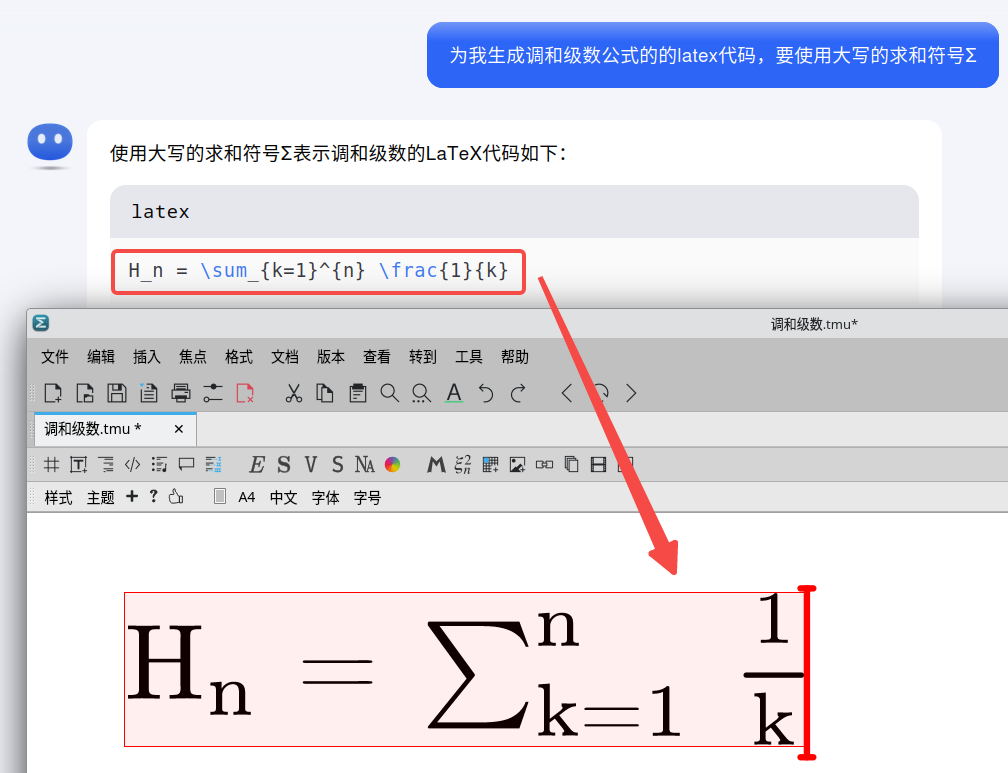
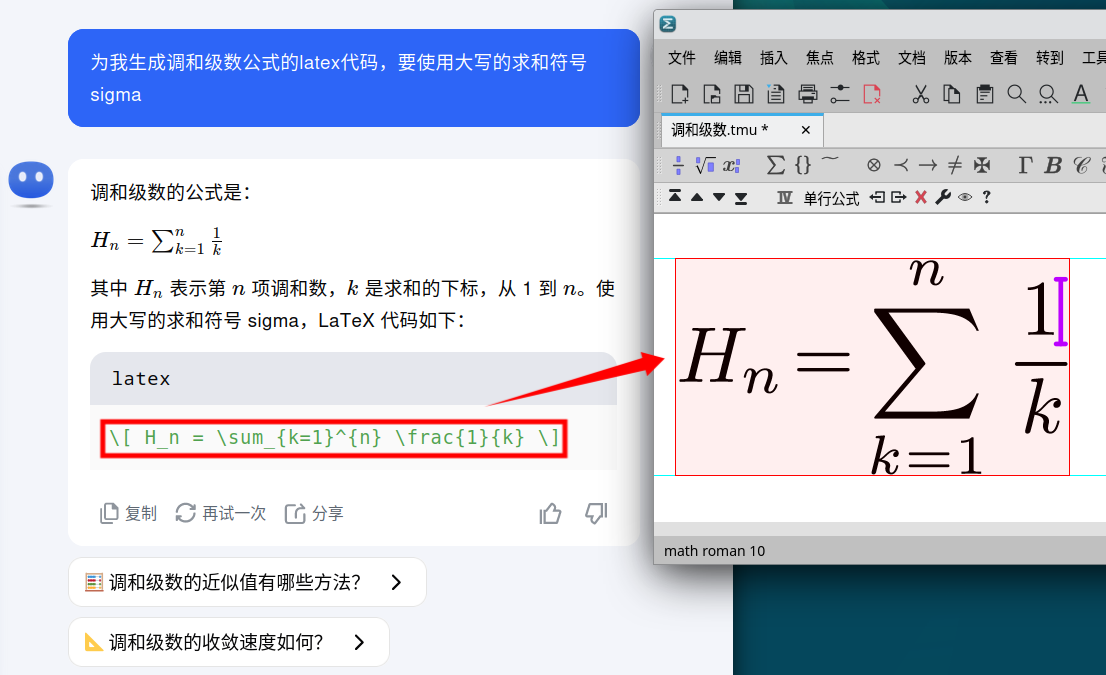
[5_30] 墨干主页配图中英版

diff --git a/docs/index.md b/docs/index.md
@@ -35,7 +35,7 @@ Intuitive and Interactive!
 
 <div class="feature-image">
 
-![](/assets/image/feature-math.png)
+![](/assets/image/feature-math-en.png)
 
 </div>
 
@@ -56,7 +56,7 @@ Copy your LaTeX code and paste it directly into Mogan STEM Suite in a WYSIWYG wa
 
 <div class="feature-image">
 
-![](/assets/image/feature-copy.png)
+![](/assets/image/feature-copy-en.png)
 
 </div>
 
@@ -70,7 +70,7 @@ Copy your LaTeX code and paste it directly into Mogan STEM Suite in a WYSIWYG wa
 
 <div class="feature-image">
 
-![](/assets/image/feature-copy-ai.png)
+![](/assets/image/feature-copy-ai-en.png)
 
 </div>
 
@@ -103,7 +103,7 @@ Mogan STEM Suite supports versatile plugins such as Maxima, making it convenient
 
 <div class="feature-image">
 
-![](/assets/image/feature-maxima.png)
+![](/assets/image/feature-maxima-en.png)
 
 </div>
 
